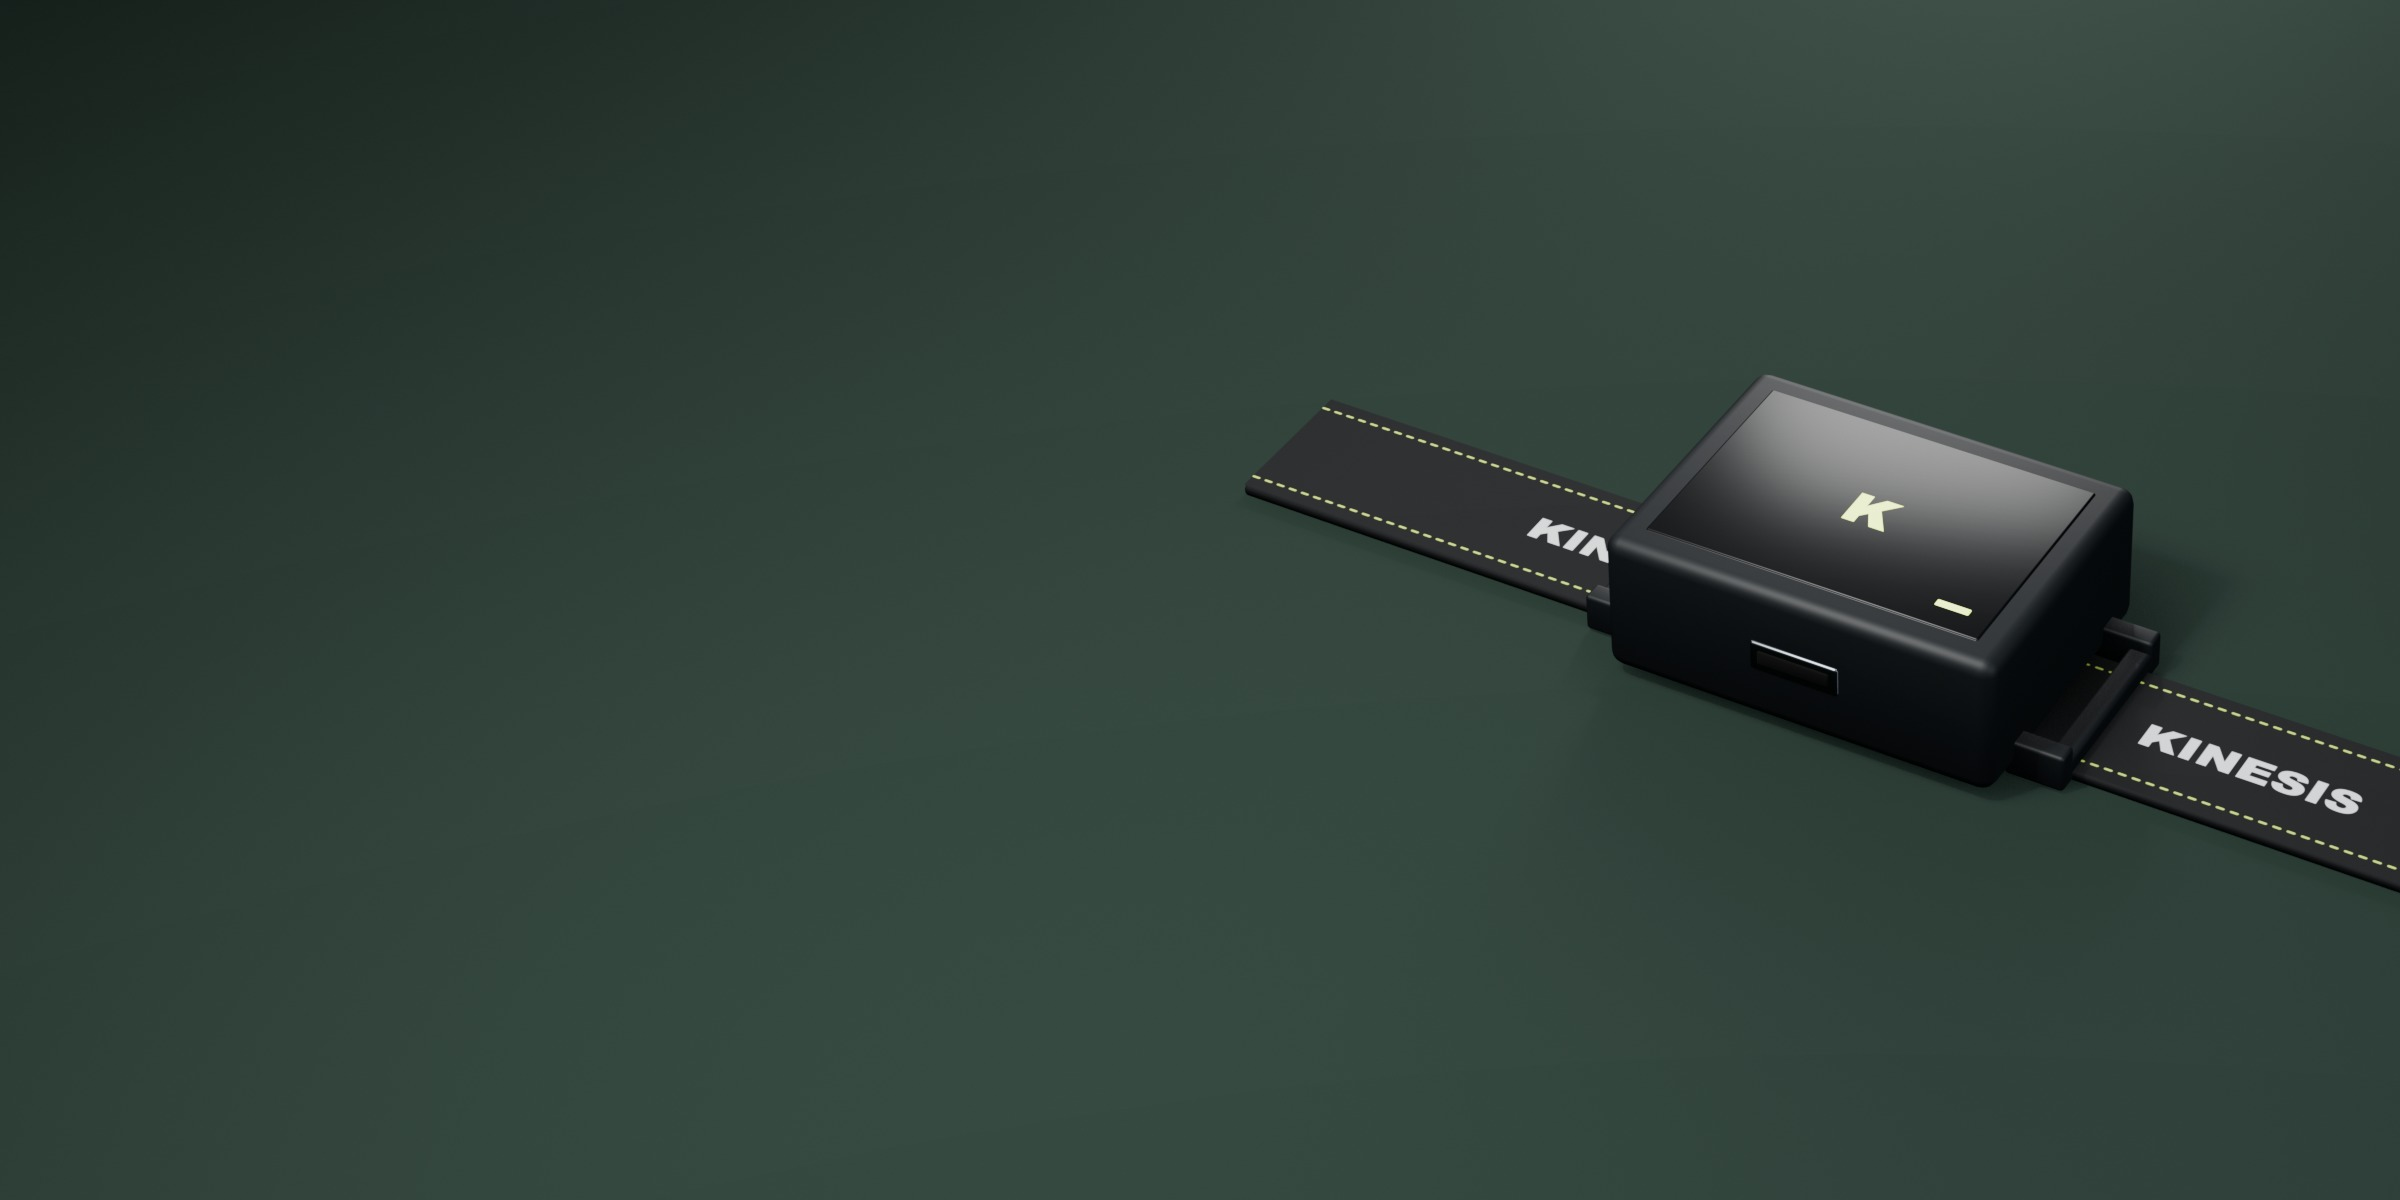
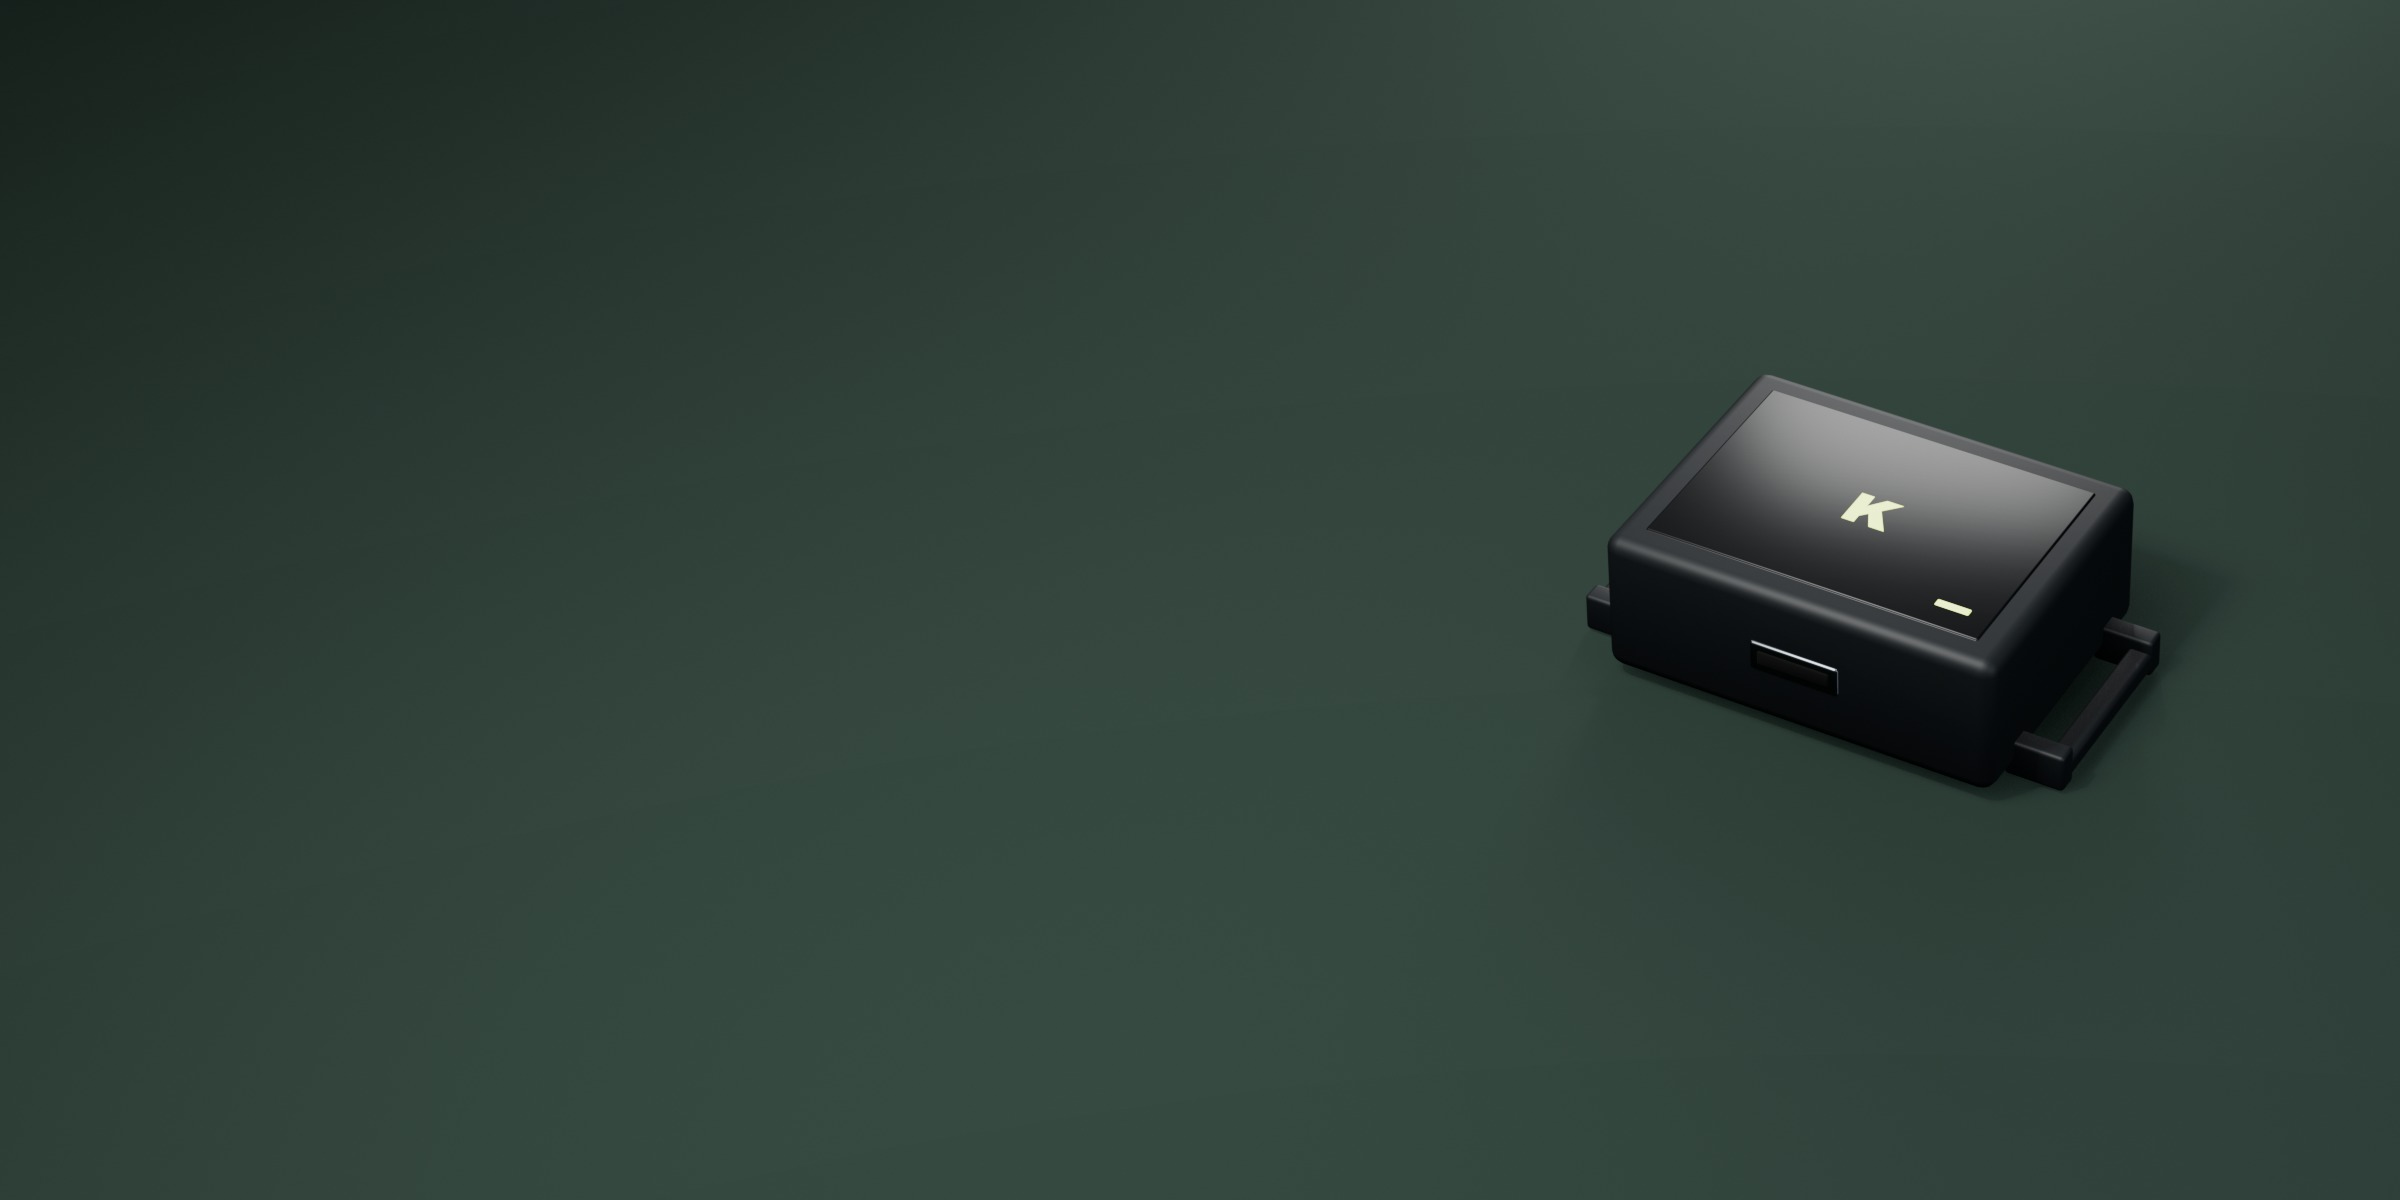
Impact Pod: box with strap loops only, threads onto the glove's wrist strap

Changed region(s): [[0.875, 0.5858, 1.0, 0.74], [0.5625, 0.4317, 0.6875, 0.5242], [0.5, 0.4008, 0.5625, 0.4317]]

diff --git a/assets/js/products.js b/assets/js/products.js
@@ -21,7 +21,7 @@ KINESIS.products = [
     img: 'assets/img/shop-pods.jpg',
     hero: 'assets/img/shop-pods-hero.jpg',
     heroPos: 'center',
-    blurb: 'Two small motion sensors that strap onto your wrists, under or over the gloves you already own. They record every punch you throw: which punch it was, how fast it was, and how your form holds up through a session.',
+    blurb: 'Two small motion sensors that thread onto the wrist strap of the gloves you already own. They record every punch you throw: which punch it was, how fast it was, and how your form holds up through a session.',
     measures: [
       'Punch type: jab, cross, hooks and uppercuts',
       'Hand speed of every punch, and how quickly it gets there',
@@ -30,13 +30,13 @@ KINESIS.products = [
       'Output per round, and how much you slow down as you tire'
     ],
     specs: [
-      ['Fit', 'Straps onto your wrist, under or over any glove'],
+      ['Fit', 'Two loops on its base. Your glove’s wrist strap threads through them'],
       ['Sensor', 'Accelerometer and gyroscope, read 200 times a second'],
       ['Range', 'Up to 32 g and 4,000 °/s'],
       ['Battery', 'About 30 hours per charge · USB-C'],
       ['Connectivity', 'Bluetooth']
     ],
-    inBox: 'Two pods · two wrist straps · USB-C cable · 3 months of Kinesis Coach'
+    inBox: 'Two pods · USB-C cable · 3 months of Kinesis Coach'
   },
   {
     id: 'impact',

diff --git a/about.html b/about.html
@@ -46,7 +46,7 @@
           <div>
             <span class="num">01</span>
             <h3 class="h-md">Sensors on your hands</h3>
-            <p>Our gloves have the sensors sealed in the cuff. If you already own gloves, Impact Pods strap onto your wrists instead. Either way, nothing changes about how you train.</p>
+            <p>Our gloves have the sensors sealed in the cuff. If you already own gloves, Impact Pods thread onto their wrist straps instead. Either way, nothing changes about how you train.</p>
           </div>
           <div>
             <span class="num">02</span>
